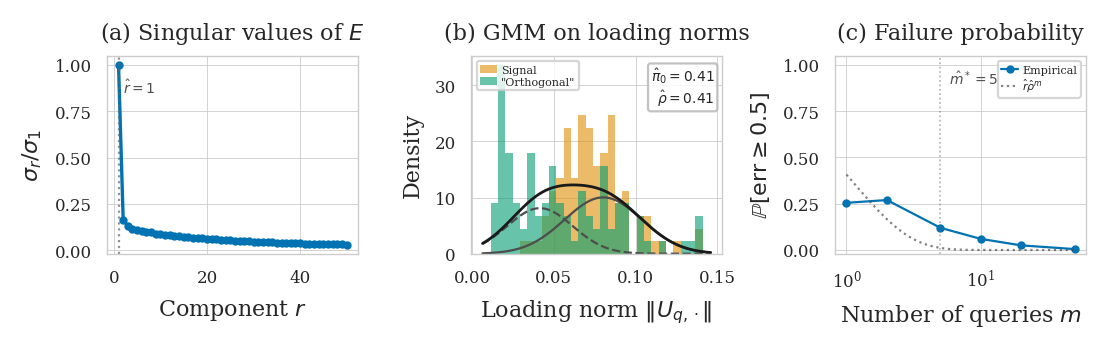
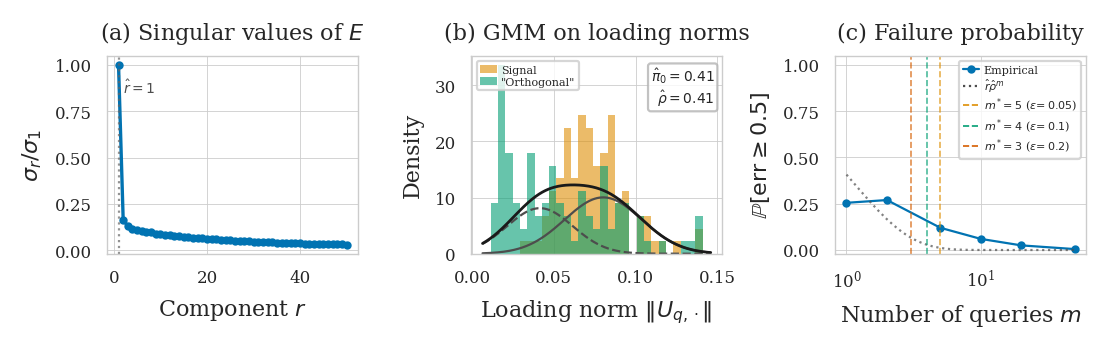
Show m* lines for three epsilon values in figure 3(c)

Changed region(s): [[0.83, 0.1724, 0.9837, 0.3736], [0.8608, 0.4023, 0.9837, 0.4598]]

diff --git a/bbo/plotting/system_prompt_plots.py b/bbo/plotting/system_prompt_plots.py
@@ -137,14 +137,28 @@ def plot_figure3_system_prompt(
             ax_fail.plot(m_cont, bound, color="0.3", linestyle=":",
                          linewidth=0.8, alpha=0.7, label=r"$\hat{r}\hat{\rho}^m$")
 
-        # Vertical line at m*
-        if np.isfinite(mstar) and mstar > 1:
-            ax_fail.axvline(x=mstar, color="0.4", linestyle=":",
-                            linewidth=0.6, alpha=0.5)
-            ax_fail.text(mstar * 1.15, 0.9, f"$\\hat{{m}}^*={mstar}$",
-                         fontsize=5, color="0.3")
+        # Vertical lines at m* for multiple ε values
+        epsilons = [0.05, 0.1, 0.2]
+        eps_colors = [PALETTE[1], PALETTE[2], PALETTE[3]]
+        for eps, eps_color in zip(epsilons, eps_colors):
+            ms = predict_mstar(r_hat, rho_hat, epsilon=eps)
+            if np.isfinite(ms) and ms > 1:
+                ax_fail.axvline(x=ms, color=eps_color, linestyle="--",
+                                linewidth=0.6, alpha=0.7)
 
-        ax_fail.legend(loc="upper right", fontsize=4)
+        # Legend entries for m* lines
+        leg = [Line2D([0], [0], color=PALETTE[0], linestyle="-", lw=0.8,
+                       marker="o", markersize=2, label="Empirical")]
+        if rho_hat > 0:
+            leg.append(Line2D([0], [0], color="0.3", linestyle=":", lw=0.8,
+                              label=r"$\hat{r}\hat{\rho}^m$"))
+        for eps, eps_color in zip(epsilons, eps_colors):
+            ms = predict_mstar(r_hat, rho_hat, epsilon=eps)
+            if np.isfinite(ms) and ms > 1:
+                leg.append(Line2D([0], [0], color=eps_color, linestyle="--",
+                                  lw=0.6,
+                                  label=f"$m^*\\!={ms}$ ($\\epsilon\\!={eps}$)"))
+        ax_fail.legend(handles=leg, loc="upper right", fontsize=4)
         ax_fail.set_xscale("log")
         ax_fail.set_ylim(-0.02, 1.05)
         ax_fail.set_xlabel("Number of queries $m$")
